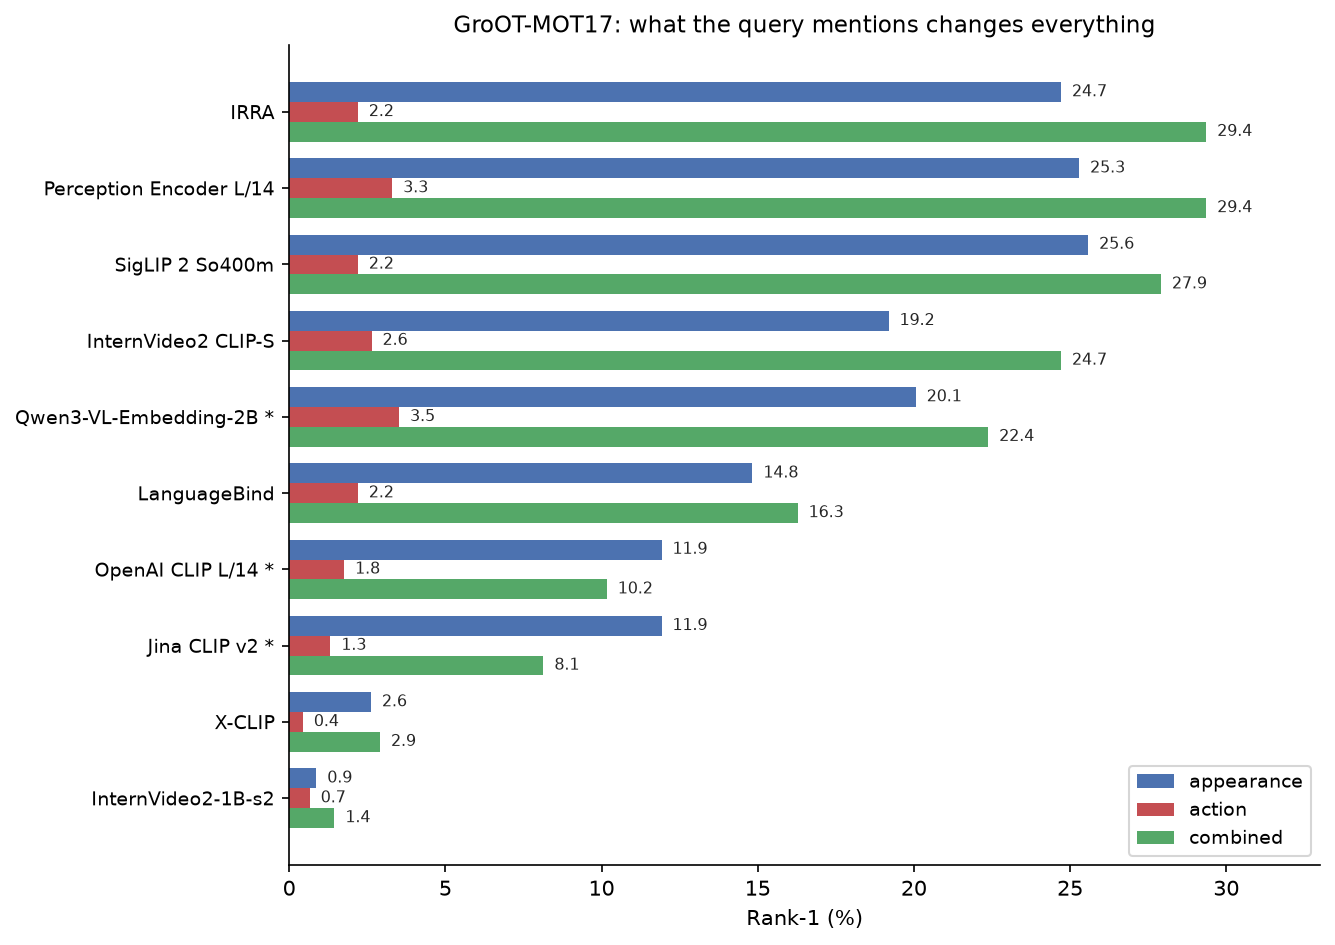
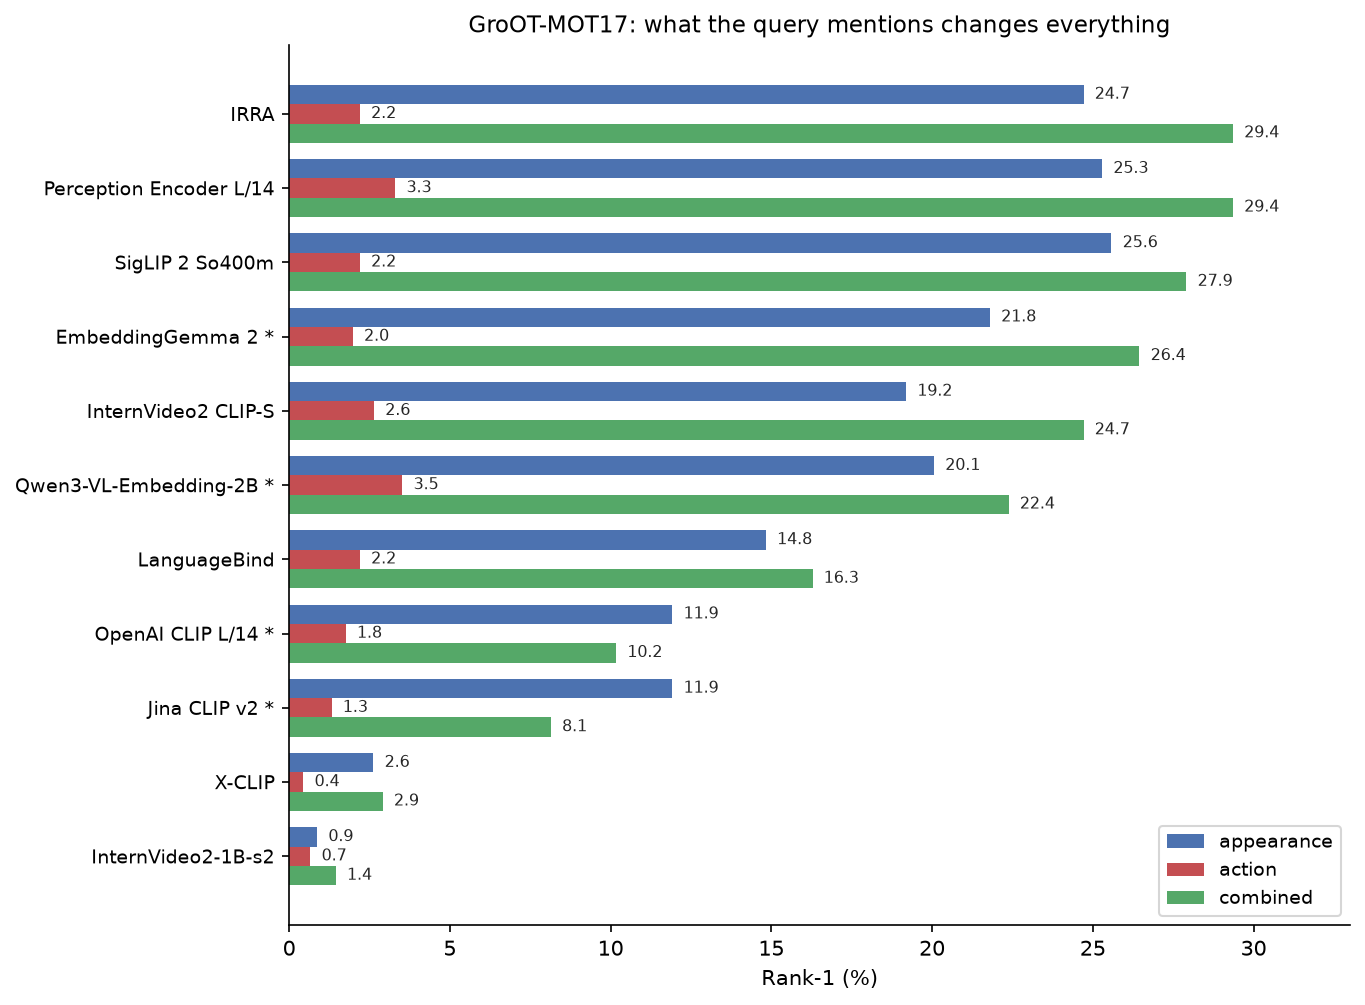
docs(figures): regenerate assets with EmbeddingGemma 2 from checkpoint CSV

Changed region(s): [[0.0, 0.0614, 0.9828, 0.982], [0.3378, 0.0, 0.8599, 0.0614]]

diff --git a/scripts/make_figures.py b/scripts/make_figures.py
@@ -5,12 +5,14 @@ executed notebooks:
 
 - base group: one session with tvpreid + rstpreid + groot_mot17
 - extended_modern: two sessions (groot_mot17 / tvpreid + rstpreid)
+- embeddinggemma2: `results/checkpoints/embeddinggemma2_tier_a_v1.csv` (best pool/protocol per subset)
 
 Run:  python scripts/make_figures.py   ->  assets/*.png
 """
 
 from __future__ import annotations
 
+import csv
 from pathlib import Path
 
 import matplotlib
@@ -19,7 +21,9 @@ matplotlib.use("Agg")
 import matplotlib.pyplot as plt
 import numpy as np
 
-ASSETS = Path(__file__).resolve().parents[1] / "assets"
+ROOT = Path(__file__).resolve().parents[1]
+ASSETS = ROOT / "assets"
+GEMMA_CSV = ROOT / "results" / "checkpoints" / "embeddinggemma2_tier_a_v1.csv"
 ASSETS.mkdir(exist_ok=True)
 
 plt.rcParams.update({"figure.dpi": 150, "savefig.dpi": 150, "font.size": 10})
@@ -27,7 +31,7 @@ plt.rcParams.update({"figure.dpi": 150, "savefig.dpi": 150, "font.size": 10})
 # Best-setting Rank-1 per test set, ordered by the 6-set mean (action excluded).
 # Columns: PRID, iLIDS, Duke, RSTPReid, GroOT appearance, GroOT action, GroOT combined.
 # GME-Qwen2-VL-2B (dagger) ran on TVPReid only; missing sets are NaN.
-RANK1 = {
+RANK1: dict[str, list[float]] = {
     "IRRA": [66.55, 30.00, 38.06, 53.30, 24.71, 2.20, 29.36],
     "SigLIP 2 So400m": [35.56, 18.67, 21.97, 41.00, 25.58, 2.20, 27.91],
     "Perception Encoder L/14": [38.38, 19.33, 17.66, 37.40, 25.29, 3.30, 29.36],
@@ -56,6 +60,37 @@ MS_PER_CLIP = {
     "InternVideo2-1B-s2": 267.11,
 }
 
+_GEMMA_KEYS = (
+    ("tvpreid", "prid"),
+    ("tvpreid", "ilids"),
+    ("tvpreid", "duke"),
+    ("rstpreid", "test"),
+    ("groot_mot17", "appearance"),
+    ("groot_mot17", "action"),
+    ("groot_mot17", "combined"),
+)
+
+
+def _load_embeddinggemma_rank1() -> list[float]:
+    """Best Rank-1 per heatmap column from the bundled EmbeddingGemma 2 CSV."""
+
+    if not GEMMA_CSV.is_file():
+        raise FileNotFoundError(f"Missing {GEMMA_CSV}; run EmbeddingGemma notebook or restore CSV.")
+    bests: dict[tuple[str, str], float] = {}
+    with GEMMA_CSV.open(newline="", encoding="utf-8") as handle:
+        for row in csv.DictReader(handle):
+            key = (row["dataset"], row["subset"])
+            value = float(row["Rank-1"])
+            bests[key] = max(bests.get(key, value), value)
+    return [bests[key] for key in _GEMMA_KEYS]
+
+
+def _merge_embeddinggemma() -> None:
+    label = "EmbeddingGemma 2 *"
+    values = _load_embeddinggemma_rank1()
+    RANK1[label] = values
+    EXTENDED.add(label)
+
 
 def mean_six(name: str) -> float:
     values = [v for v in RANK1[name][:5] + [RANK1[name][6]] if not np.isnan(v)]
@@ -67,7 +102,7 @@ def heatmap() -> None:
     matrix = np.ma.masked_invalid(np.array([RANK1[name] for name in names]))
     cmap = matplotlib.colormaps["YlGnBu"].copy()
     cmap.set_bad("#e6e6e6")
-    fig, ax = plt.subplots(figsize=(9.8, 5.4))
+    fig, ax = plt.subplots(figsize=(10.2, 5.8))
     image = ax.imshow(matrix, cmap=cmap, aspect="auto", vmin=0, vmax=70)
     ax.set_xticks(range(len(COLUMNS)))
     ax.set_xticklabels(COLUMNS, fontsize=9)
@@ -79,12 +114,20 @@ def heatmap() -> None:
                 ax.text(j, i, "\u2014", ha="center", va="center", fontsize=8, color="0.35")
             else:
                 ax.text(
-                    j, i, f"{value:.2f}", ha="center", va="center", fontsize=7.5,
+                    j,
+                    i,
+                    f"{value:.2f}",
+                    ha="center",
+                    va="center",
+                    fontsize=7.5,
                     color="white" if value > 32 else "#1a1a1a",
                 )
     for x in (2.5, 3.5):
         ax.axvline(x, color="0.25", lw=1.4)
-    ax.set_title("Zero-shot text-to-tracklet Rank-1, best setting per model (Kaggle / Colab T4)", fontsize=11)
+    ax.set_title(
+        "Zero-shot text-to-tracklet Rank-1, best setting per model (Kaggle / Colab T4)",
+        fontsize=11,
+    )
     fig.colorbar(image, ax=ax, label="Rank-1 (%)", shrink=0.85)
     fig.tight_layout()
     fig.savefig(ASSETS / "rank1_heatmap.png", bbox_inches="tight")
@@ -98,7 +141,7 @@ def groot_bars() -> None:
     combined = [RANK1[n][6] for n in order]
     y = np.arange(len(order))[::-1]
     height = 0.26
-    fig, ax = plt.subplots(figsize=(9, 6.4))
+    fig, ax = plt.subplots(figsize=(9.2, 6.8))
     ax.barh(y + height, appearance, height=height, color="#4C72B0", label="appearance")
     ax.barh(y, action, height=height, color="#C44E52", label="action")
     ax.barh(y - height, combined, height=height, color="#55A868", label="combined")
@@ -120,32 +163,59 @@ def groot_bars() -> None:
 def speed_scatter() -> None:
     fig, ax = plt.subplots(figsize=(8.2, 5.2))
     for label, color, names in (
-        ("base", "#4C72B0", [n for n in RANK1 if n not in EXTENDED]),
-        ("extended (Colab/Kaggle)", "#DD8452", [n for n in RANK1 if n in EXTENDED]),
+        ("base", "#4C72B0", [n for n in RANK1 if n not in EXTENDED and n in MS_PER_CLIP]),
+        ("extended (Colab/Kaggle)", "#DD8452", [n for n in RANK1 if n in EXTENDED and n in MS_PER_CLIP]),
     ):
+        if not names:
+            continue
         ax.scatter(
-            [MS_PER_CLIP[n] for n in names], [mean_six(n) for n in names],
-            s=95, color=color, label=label, edgecolor="white", zorder=3,
+            [MS_PER_CLIP[n] for n in names],
+            [mean_six(n) for n in names],
+            s=95,
+            color=color,
+            label=label,
+            edgecolor="white",
+            zorder=3,
         )
     short = {
-        "IRRA": "IRRA", "SigLIP 2 So400m": "SigLIP 2", "Perception Encoder L/14": "PE L/14",
-        "InternVideo2 CLIP-S": "IV2 CLIP-S", "Qwen3-VL-Embedding-2B *": "Qwen3-VL",
-        "LanguageBind": "LanguageBind", "OpenAI CLIP L/14 *": "CLIP L/14", "Jina CLIP v2 *": "Jina v2",
-        "GME-Qwen2-VL-2B \u2020": "GME-Qwen2", "X-CLIP": "X-CLIP", "InternVideo2-1B-s2": "IV2-1B-s2",
+        "IRRA": "IRRA",
+        "SigLIP 2 So400m": "SigLIP 2",
+        "Perception Encoder L/14": "PE L/14",
+        "InternVideo2 CLIP-S": "IV2 CLIP-S",
+        "Qwen3-VL-Embedding-2B *": "Qwen3-VL",
+        "LanguageBind": "LanguageBind",
+        "OpenAI CLIP L/14 *": "CLIP L/14",
+        "Jina CLIP v2 *": "Jina v2",
+        "GME-Qwen2-VL-2B \u2020": "GME-Qwen2",
+        "X-CLIP": "X-CLIP",
+        "InternVideo2-1B-s2": "IV2-1B-s2",
+        "EmbeddingGemma 2 *": "Emb. Gemma 2",
     }
-    # (dx, dy, ha) offsets keep the labels off each other.
     offsets = {
-        "IRRA": (8, 2, "left"), "X-CLIP": (8, -3, "left"), "InternVideo2-1B-s2": (8, 0, "left"),
-        "SigLIP 2 So400m": (8, 2, "left"), "Perception Encoder L/14": (-8, 7, "right"),
-        "InternVideo2 CLIP-S": (-8, 6, "right"), "Qwen3-VL-Embedding-2B *": (8, -4, "left"),
-        "LanguageBind": (8, 0, "left"), "OpenAI CLIP L/14 *": (8, 0, "left"), "Jina CLIP v2 *": (8, 0, "left"),
+        "IRRA": (8, 2, "left"),
+        "X-CLIP": (8, -3, "left"),
+        "InternVideo2-1B-s2": (8, 0, "left"),
+        "SigLIP 2 So400m": (8, 2, "left"),
+        "Perception Encoder L/14": (-8, 7, "right"),
+        "InternVideo2 CLIP-S": (-8, 6, "right"),
+        "Qwen3-VL-Embedding-2B *": (8, -4, "left"),
+        "LanguageBind": (8, 0, "left"),
+        "OpenAI CLIP L/14 *": (8, 0, "left"),
+        "Jina CLIP v2 *": (8, 0, "left"),
         "GME-Qwen2-VL-2B \u2020": (0, 9, "center"),
     }
     for name in RANK1:
-        dx, dy, ha = offsets[name]
+        if name not in MS_PER_CLIP:
+            continue
+        dx, dy, ha = offsets.get(name, (8, 0, "left"))
         ax.annotate(
-            short[name], (MS_PER_CLIP[name], mean_six(name)),
-            xytext=(dx, dy), textcoords="offset points", ha=ha, fontsize=8.5, color="0.1",
+            short.get(name, name),
+            (MS_PER_CLIP[name], mean_six(name)),
+            xytext=(dx, dy),
+            textcoords="offset points",
+            ha=ha,
+            fontsize=8.5,
+            color="0.1",
         )
     ax.set_xscale("log")
     ax.set_xlim(20, 4400)
@@ -161,7 +231,9 @@ def speed_scatter() -> None:
 
 
 if __name__ == "__main__":
+    _merge_embeddinggemma()
     heatmap()
     groot_bars()
     speed_scatter()
     print("wrote", *[p.name for p in sorted(ASSETS.glob("*.png"))])
+    print("EmbeddingGemma 2 Rank-1 column:", RANK1["EmbeddingGemma 2 *"])
